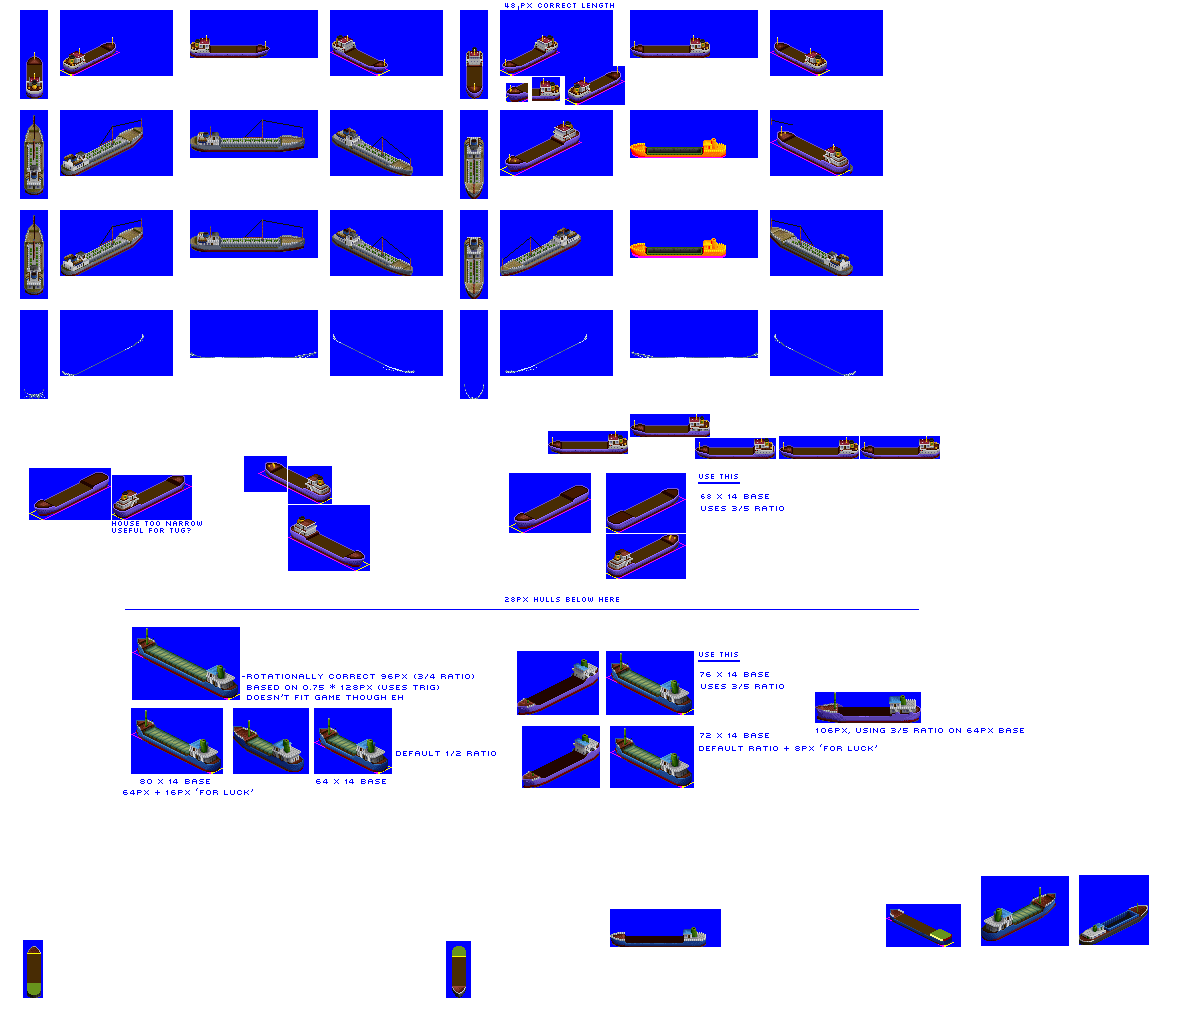
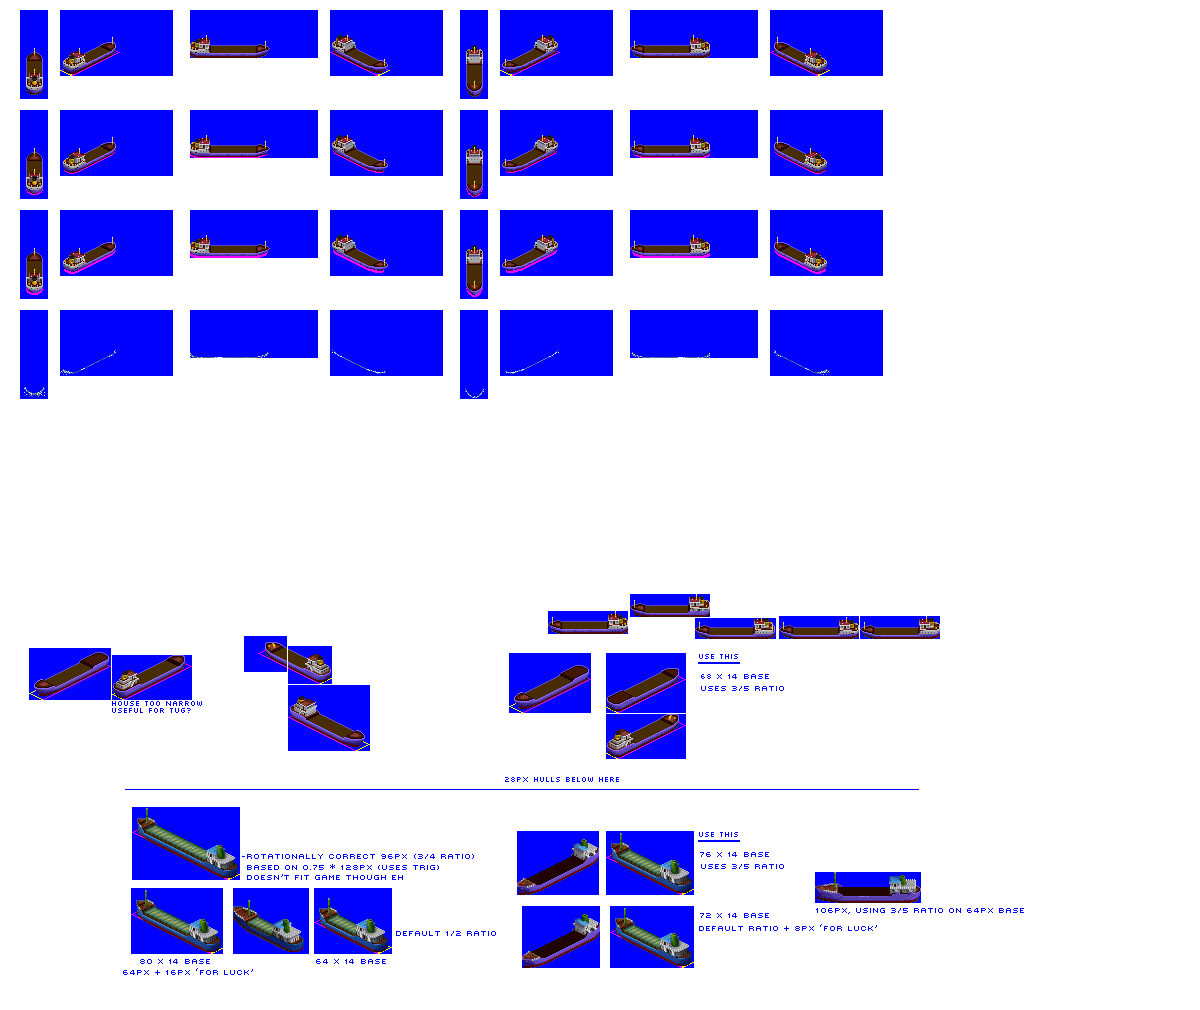
Change: hull complete for gen 3C ship house rear

diff --git a/src/vehicles/freighter_ships.py b/src/vehicles/freighter_ships.py
@@ -45,7 +45,7 @@ def main():
         gen=3,
         subtype="C",
         hull="ShipHouseRear",
-        effect_type="EFFECT_SPRITE_STEAM",
+        effect_type="EFFECT_SPRITE_DIESEL",
         cargo_length=6,
     )
 
@@ -56,7 +56,7 @@ def main():
         gen=3,
         subtype="D",
         hull="ShipHouseRear",
-        effect_type="EFFECT_SPRITE_AIRCRAFT_BREAKDOWN_SMOKE",
+        effect_type="EFFECT_SPRITE_DIESEL",
         cargo_length=8,
     )
 
@@ -67,7 +67,7 @@ def main():
         gen=3,
         subtype="E",
         hull="ShipHouseRear",
-        effect_type="EFFECT_SPRITE_AIRCRAFT_BREAKDOWN_SMOKE",
+        effect_type="EFFECT_SPRITE_DIESEL",
         cargo_length=8,
         sprites_complete=True,
     )
@@ -79,7 +79,7 @@ def main():
         gen=3,
         subtype="F",
         hull="ShipHouseRear",
-        effect_type="EFFECT_SPRITE_AIRCRAFT_BREAKDOWN_SMOKE",
+        effect_type="EFFECT_SPRITE_DIESEL",
         cargo_length=8,
     )
 

diff --git a/src/hulls.py b/src/hulls.py
@@ -118,7 +118,7 @@ class ShipHouseRear80px(Hull):
         self.hull_type = "ship"
         self.house_position = "rear"
         self.load_state_y_offsets = [("empty", -1), ("part_load", 0), ("full_load", 1)]
-        self.effects_positions = [(11, 0, 24)]
+        self.effects_positions = [(8, 0, 19)]
 
 
 class ShipHouseRear96px(Hull):
